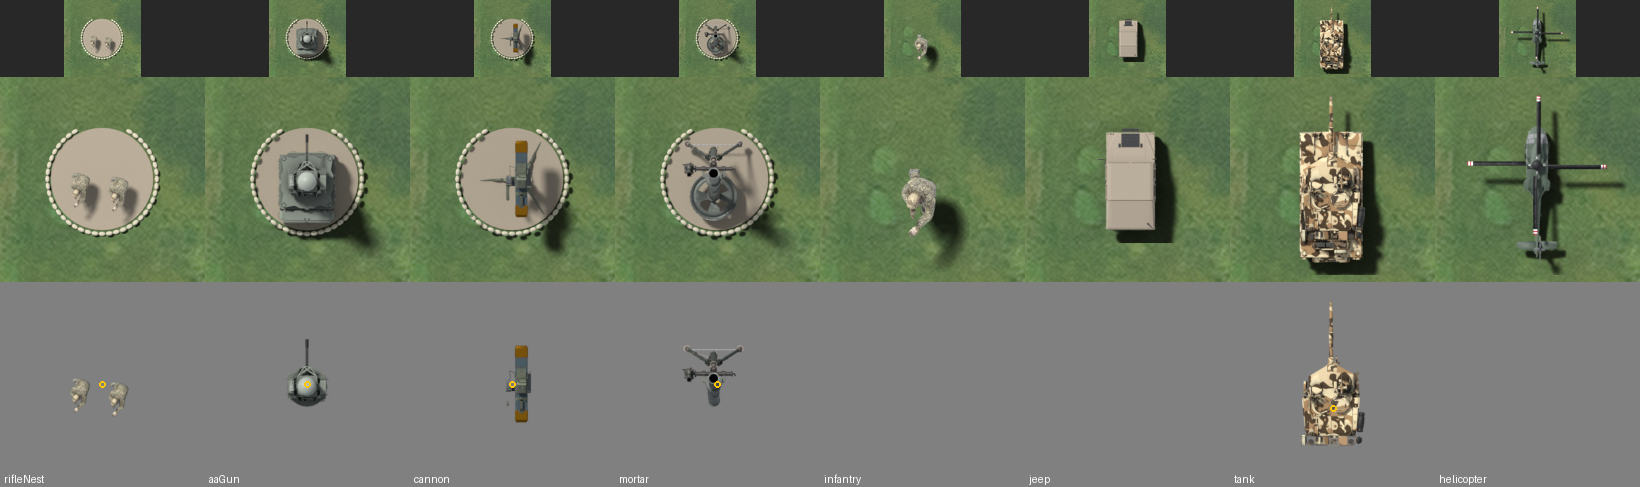
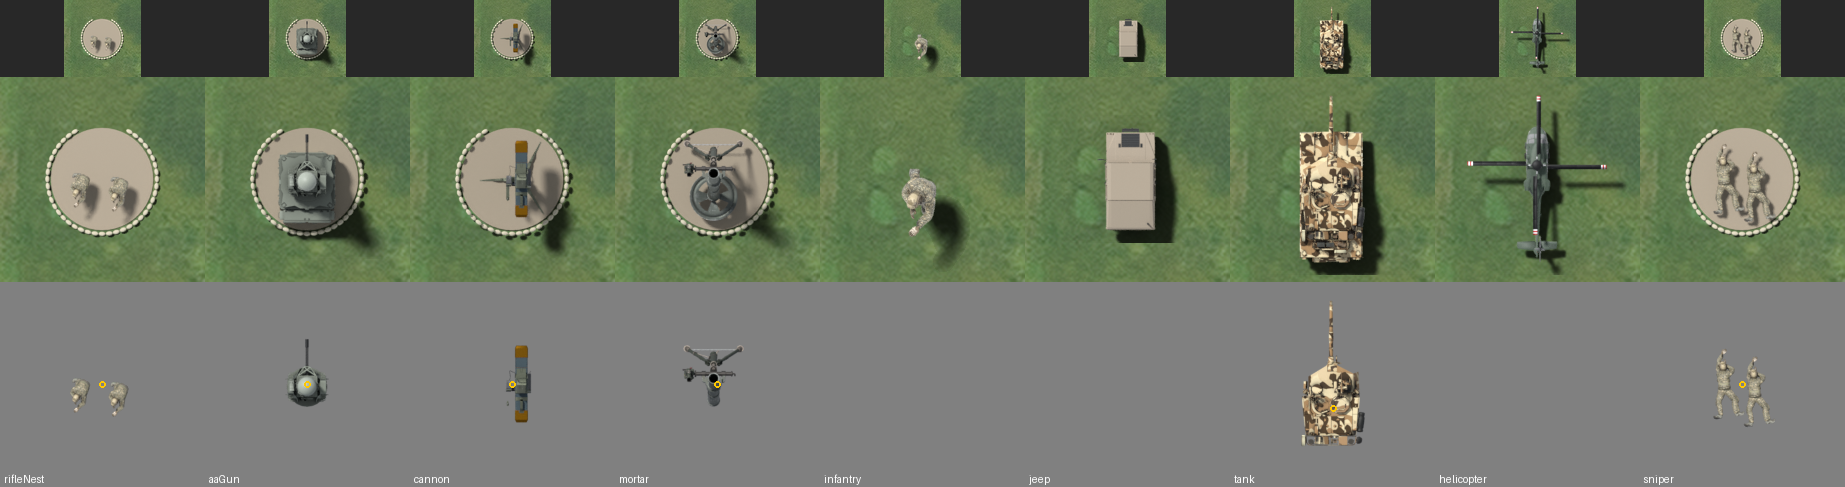
feat: Sniper team render pipeline and US render (#459)
Claude-Session: https://claude.ai/code/session_013cBup152WwyEcr7n4ixUpU

diff --git a/tests/render-pivot.test.ts b/tests/render-pivot.test.ts
@@ -97,13 +97,39 @@ describe('the committed render data', () => {
   });
 });
 
+/**
+ * Kinds rendered before their gameplay (art-ahead): each Faction gets its render in its own part, and the kind joins
+ * `SPRITES` when it is put in play (Sniper: #364).
+ */
+const ART_AHEAD_KINDS = ['sniper'];
+
 describe('the complete Faction sets (ADR-0009, point 5)', () => {
   const kinds = Object.keys(SPRITES).sort();
   // Every Faction: US (#314), Russia (#315), China (#316), Insurgents (#317).
   for (const faction of FACTIONS) {
-    it(`has one render per kind for ${faction}`, () => {
+    it(`has one render per kind for ${faction}, plus any art-ahead kinds done so far`, () => {
       const models = RENDER_CONFIG.models.filter((m) => m.faction === faction);
-      expect(models.map((m) => m.kind).sort()).toEqual(kinds);
+      const inPlay = models.filter((m) => !ART_AHEAD_KINDS.includes(m.kind));
+      expect(inPlay.map((m) => m.kind).sort()).toEqual(kinds);
+      const ahead = models.filter((m) => ART_AHEAD_KINDS.includes(m.kind)).map((m) => m.kind);
+      expect(new Set(ahead).size, 'one render per art-ahead kind').toBe(ahead.length);
+    });
+  }
+});
+
+describe('the Sniper renders (art-ahead, #358)', () => {
+  const snipers = RENDER_CONFIG.models.filter((m) => m.kind === 'sniper');
+
+  it('covers the Factions done so far: US (#459)', () => {
+    expect(snipers.map((m) => m.faction)).toEqual(expect.arrayContaining(['us']));
+  });
+
+  for (const model of snipers) {
+    it(`${model.id} is a team on a dug-in base that turns about the pad centre`, () => {
+      expect(model.base, 'a base').toBeDefined();
+      expect(model.turret, 'a turret layer').toBeDefined();
+      const { json } = buildRenderMeta().find((m) => m.json.id === model.id)!;
+      expect(json.pivot).toEqual({ x: json.canvasPx / 2, y: json.canvasPx / 2 });
     });
   }
 });

diff --git a/src/data/renders.test.ts b/src/data/renders.test.ts
@@ -1,3 +1,5 @@
+import { existsSync, readFileSync } from 'node:fs';
+import { PNG } from 'pngjs';
 import { describe, expect, it } from 'vitest';
 import { RENDERS, RENDER_FACING, renderFor } from './renders';
 import { SPRITES, type SpriteKind } from './sprites';
@@ -48,4 +50,30 @@ describe('RENDERS', () => {
   it('renders face north', () => {
     expect(RENDER_FACING).toBeCloseTo(-Math.PI / 2);
   });
+});
+
+describe('the committed Sniper renders (art-ahead: not in RENDERS until #364 puts the Sniper in play)', () => {
+  // The Factions whose Sniper is rendered so far: US (#459). Later parts of #358 add theirs.
+  for (const faction of ['us']) {
+    const id = `${faction}-sniper`;
+    const dir = `assets/render-${id}`;
+
+    it(`${id} has its pivot data: a 1.25-tile canvas turning about the pad centre`, () => {
+      const meta = JSON.parse(readFileSync(`${dir}/${id}.json`, 'utf8'));
+      expect(meta).toMatchObject({ id, kind: 'sniper', pxPerTile: 128, canvasPx: 160, pivot: { x: 80, y: 80 } });
+    });
+
+    for (const layer of ['hull', 'turret'] as const) {
+      it(`${id} has a ${layer} layer on the same canvas`, () => {
+        const path = `${dir}/${id}-${layer}.png`;
+        expect(existsSync(path), path).toBe(true);
+        const png = PNG.sync.read(readFileSync(path));
+        expect([png.width, png.height]).toEqual([160, 160]);
+      });
+    }
+
+    it(`keeps ${id} out of RENDERS until it is in play`, () => {
+      expect(Object.values(RENDERS).map((r) => r.id)).not.toContain(id);
+    });
+  }
 });

diff --git a/scripts/faction-sheet.py b/scripts/faction-sheet.py
@@ -3,6 +3,7 @@
 Row 1: each kind at 48 px per tile (the game's TILE_PX), on a plain-grass crop of the NAIP patch.
 Row 2: the same at 128 px per tile (the render resolution), on grass.
 Row 3: the turret layer alone at 128 px on a neutral grey, with its pivot marked (kinds without a turret: blank).
+Art-ahead kinds (rendered before their gameplay, e.g. the Sniper, #358) get a last column when the Faction has one.
 
 Run after render-sprite.py and `npm run render:pivot` (needs Pillow in the art venv):
     .venv-art/bin/python scripts/faction-sheet.py us [--out docs/art/faction-us.png]
@@ -20,6 +21,8 @@ GAME_TILE = 48
 NAIP_GRASS_BOX = (0, 192, 128, 320)  # a plain-grass crop of the NAIP patch, in its own pixels (sprite-compare.py)
 CELL = 1.6  # tiles per cell, enough for the largest canvas (1.5)
 KINDS = ["rifleNest", "aaGun", "cannon", "mortar", "infantry", "jeep", "tank", "helicopter"]
+# Kinds rendered before their gameplay (#358): a column only for a Faction that has one so far.
+ART_AHEAD_KINDS = ["sniper"]
 
 
 def grass(px: int) -> Image.Image:
@@ -44,11 +47,12 @@ def main() -> None:
     missing = [k for k in KINDS if k not in models]
     if missing:
         raise SystemExit(f"{args.faction}: no model for {', '.join(missing)}")
+    kinds = KINDS + [k for k in ART_AHEAD_KINDS if k in models]
     small, big = round(CELL * GAME_TILE), round(CELL * RENDER_TILE)
-    width = len(KINDS) * big
+    width = len(kinds) * big
     sheet = Image.new("RGBA", (width, small + 2 * big), (40, 40, 40, 255))
     draw = ImageDraw.Draw(sheet)
-    for i, kind in enumerate(KINDS):
+    for i, kind in enumerate(kinds):
         m = models[kind]
         folder = args.assets / f"render-{m['id']}"
         whole = Image.open(folder / f"{m['id']}.png").convert("RGBA")

diff --git a/CREDITS.md b/CREDITS.md
@@ -88,9 +88,9 @@ Third-party assets in this game. Generated from `assets/manifest.json` by `npm r
 - Author: MissingTray1151
 - Source: <https://sketchfab.com/3d-models/2bfce585144d4403a3ddf76a0e65767a>
 - License: CC-BY-4.0
-- Attribution: "Tactical Soldier (game ready) low poly" by MissingTray1151 (sketchfab.com), CC-BY 4.0, rendered top-down, posed from its crouch_firing (Rifle Nest: two copies in a sandbagged pit of our own) and walking_firing (Infantry) animations; US kit tinted toward OCP, Russia kit tinted olive (toward EMR)
+- Attribution: "Tactical Soldier (game ready) low poly" by MissingTray1151 (sketchfab.com), CC-BY 4.0, rendered top-down, posed from its crouch_firing (Rifle Nest: two copies in a sandbagged pit of our own), prone_firing (Sniper: a shooter and an observer in a dug-in pit of our own) and walking_firing (Infantry) animations; US kit tinted toward OCP, Russia kit tinted olive (toward EMR)
 - Downloaded: 2026-11-02
-- Files: `assets/render-us-rifle-nest/**`, `assets/render-us-infantry/**`, `assets/render-russia-rifle-nest/**`, `assets/render-russia-infantry/**`
+- Files: `assets/render-us-rifle-nest/**`, `assets/render-us-infantry/**`, `assets/render-us-sniper/**`, `assets/render-russia-rifle-nest/**`, `assets/render-russia-infantry/**`
 
 ## Phalanx CIWS (top-down render)
 

diff --git a/docs/adr/0009-satellite-milsim-art-and-factions.md b/docs/adr/0009-satellite-milsim-art-and-factions.md
@@ -36,6 +36,9 @@ The maintainer also wants each map to pit two sides against each other, picked f
 | **Jeep** (unarmored, fast) | M1097 soft-top Humvee | UAZ-469 | BJ2022 Brave Warrior | Toyota Hilux technical with a DShK |
 | **Tank** | M1A2 SEPv3 Abrams | T-72B3 | Type 99A | T-55 (captured) |
 | **Helicopter** (light armor) | UH-60 Black Hawk | Mi-8AMTSh | Z-20 | Mi-8 (captured) |
+| **Sniper** (rendered ahead of play, #358) | Two-man team prone in a dug-in hide, M107 / M2010, OCP | to come | to come | to come |
+
+Updated 2026-11-11 (#459): the Sniper row. Its renders come one Faction per part, before the Sniper is in play (#364); the US render is a stand-in rifle and kit on the same soldier model as the Rifle Nest.
 
 Picks match the stats: the Jeep has no armor (so no armored Humvee or Tigr), the Helicopter has light armor (a transport, not an Apache or Hind), and the AA Gun is a fast-firing gun that also hits ground targets.
 
